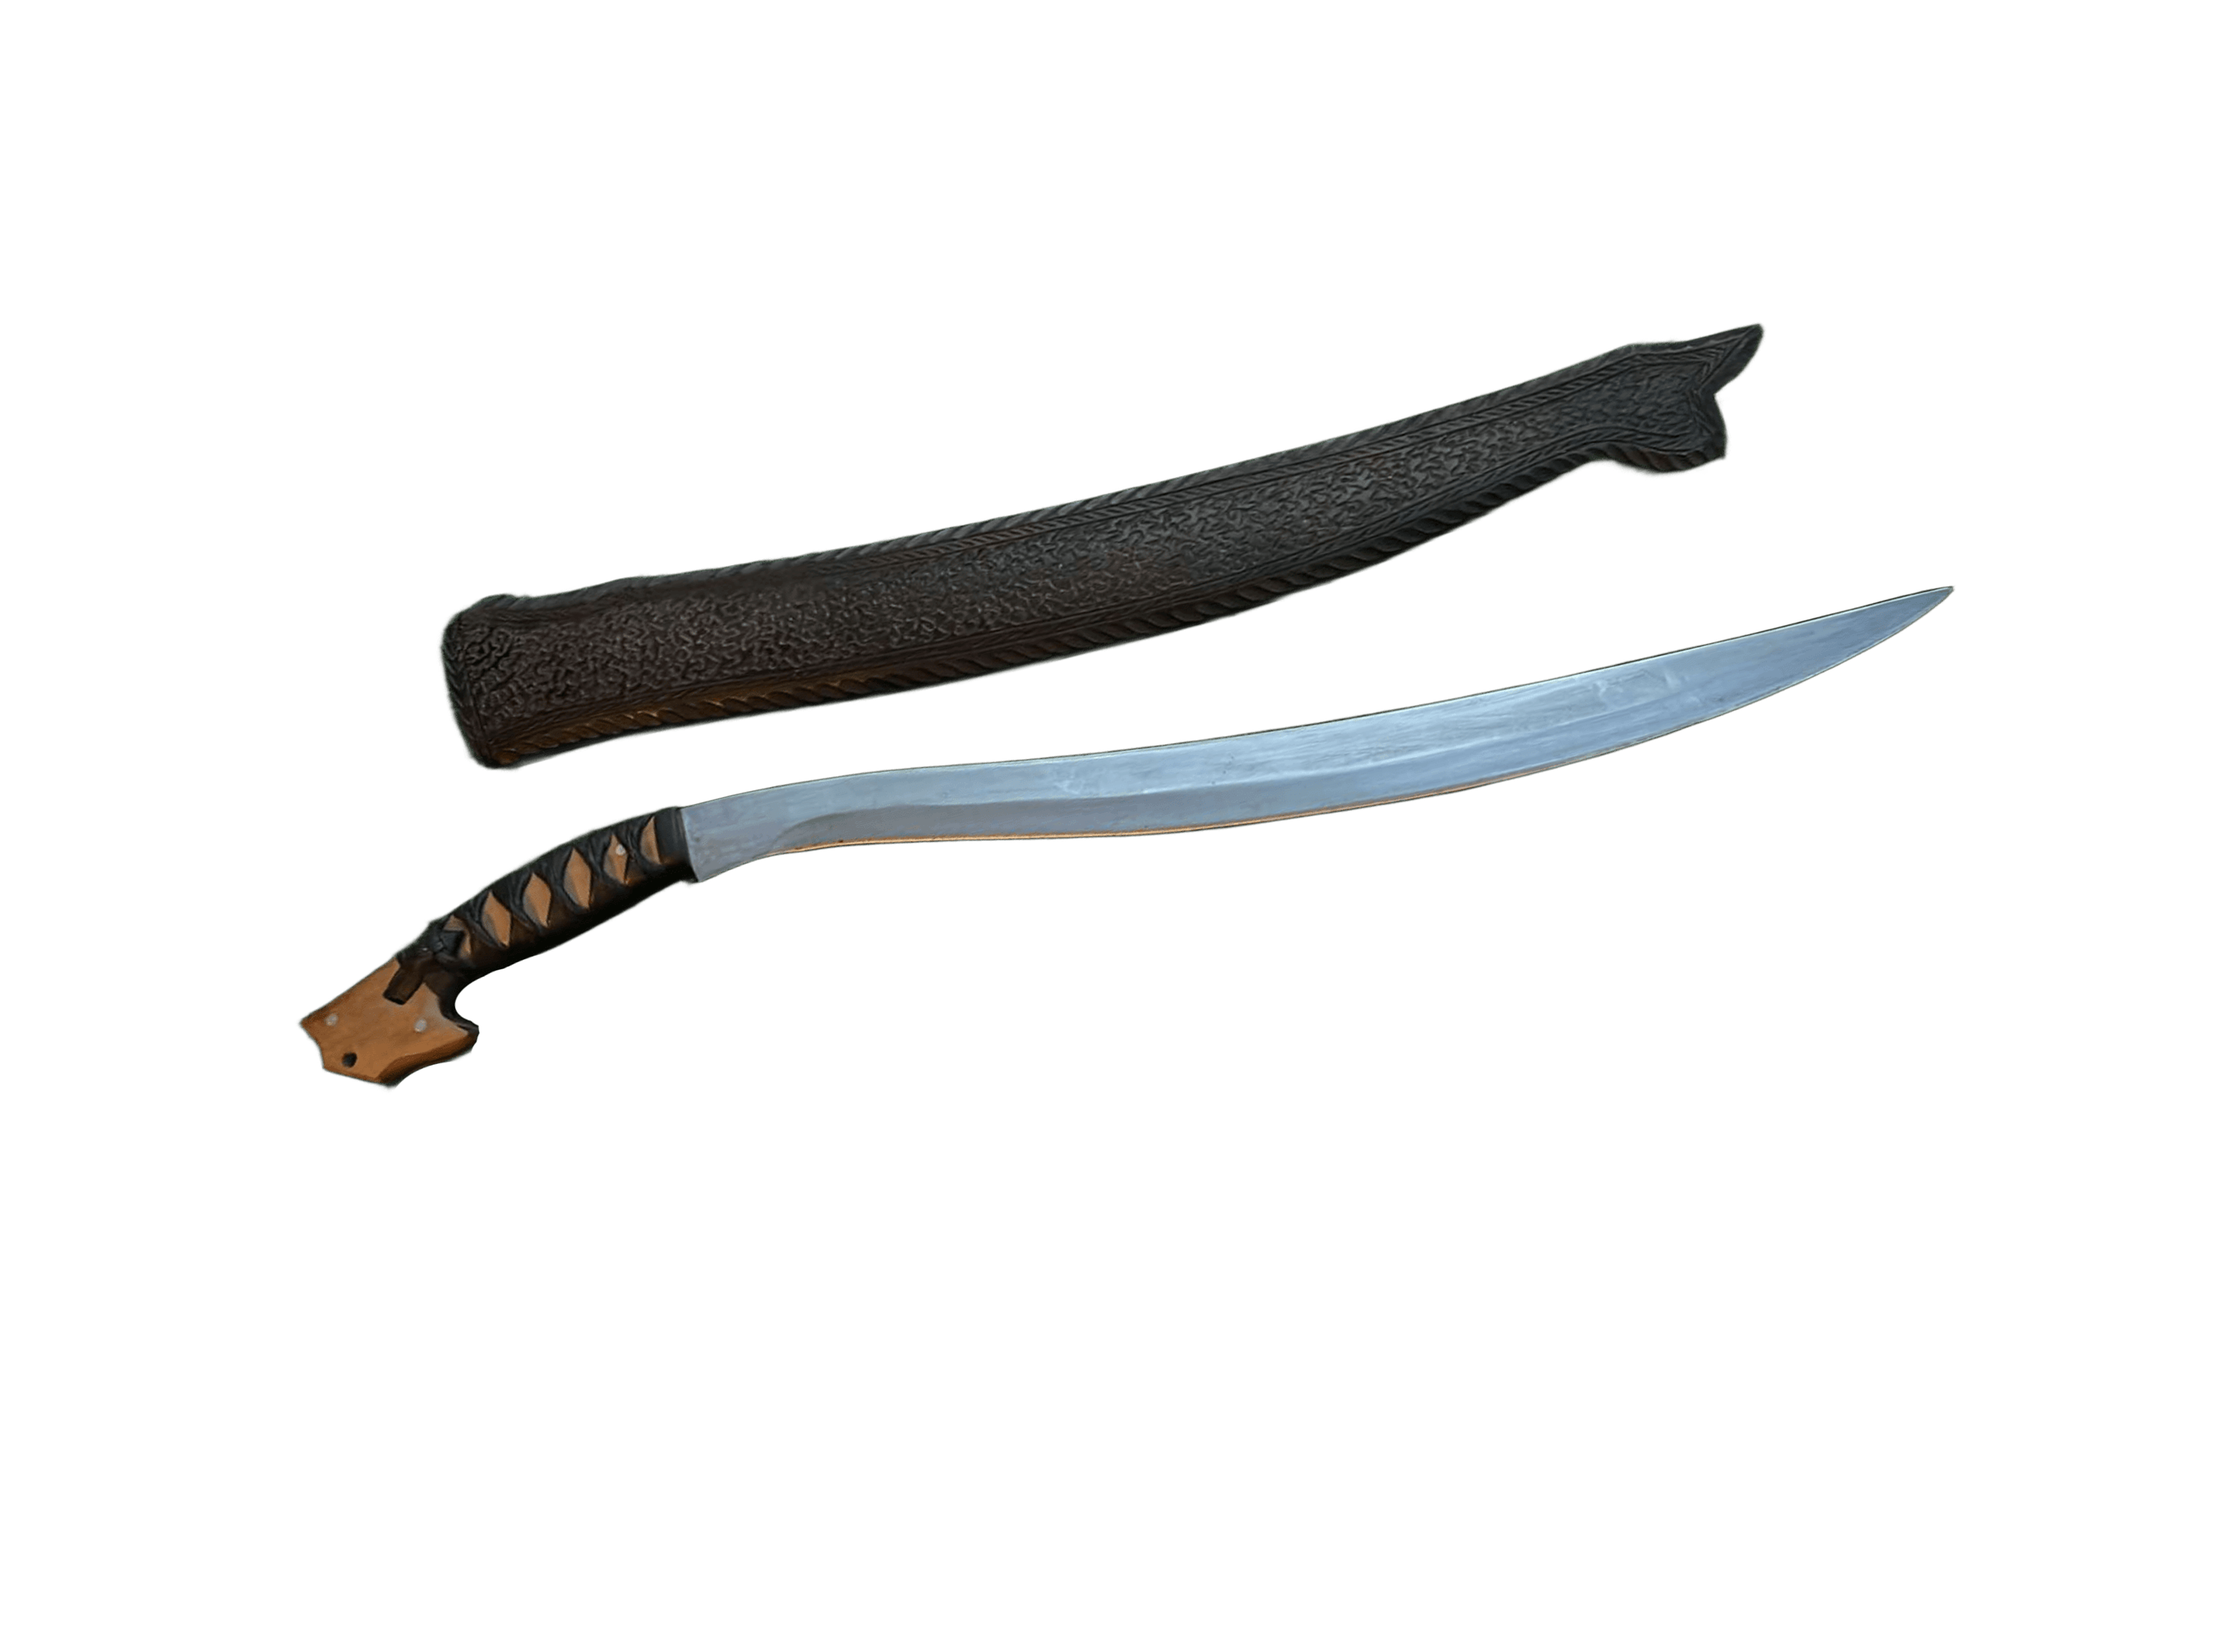
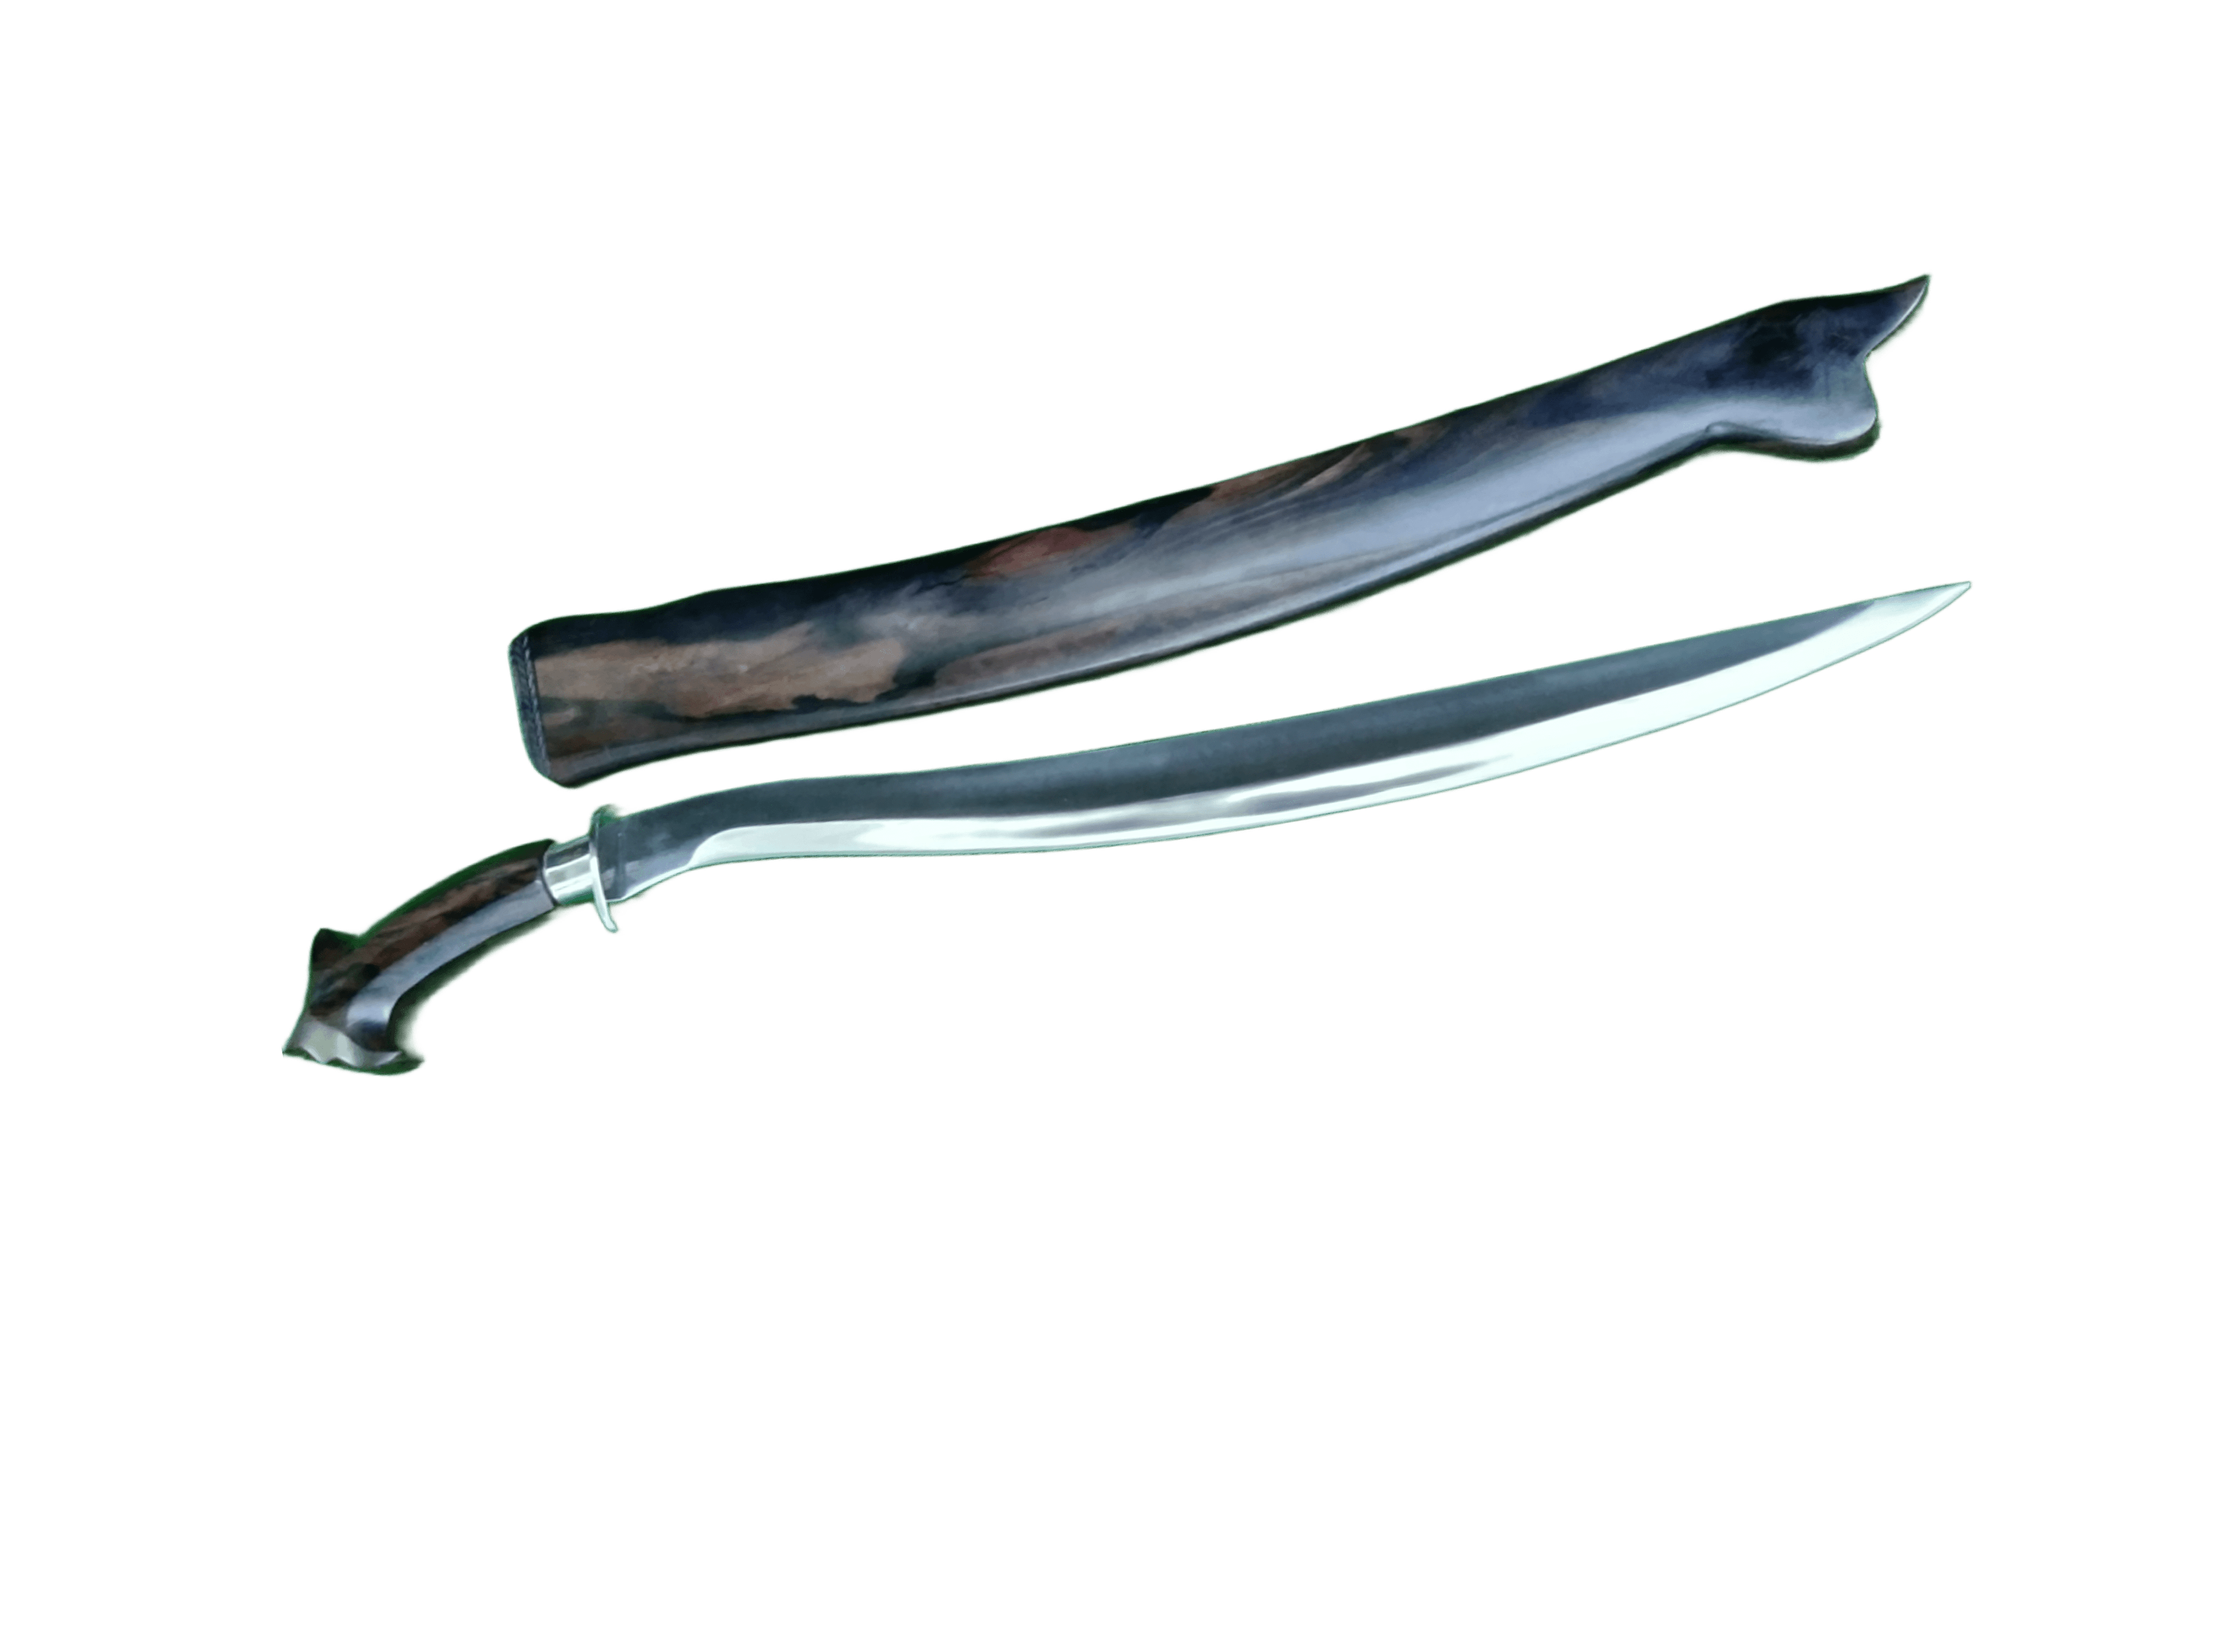
update garab

Changed region(s): [[0.1245, 0.1561, 0.8712, 0.6867]]

diff --git a/js/products-data.js b/js/products-data.js
@@ -199,9 +199,9 @@ window.PANGASINAN_PRODUCTS = [
   },
   {
     "id": 11,
-    "slug": "garab",
-    "image": "assets/images/collection/bolo_series/garab.webp",
-    "name": "Garab",
+    "slug": "garab-hd",
+    "image": "assets/images/collection/bolo_series/garab_with_wrapped_handle.webp",
+    "name": "Garab HD",
     "description": "Garab blade profile, full tang, stainless steel pin, ergonomic wrapped handle, leather lanyard strap. ",
     "category": "bolo",
     "series": "Bolo Series",
@@ -397,12 +397,12 @@ window.PANGASINAN_PRODUCTS = [
   },
   {
     "id": 22,
-    "slug": "talibong",
-    "image": "assets/images/collection/combat_series/talibong.webp",
-    "name": "Talibong",
-    "description": "Talibong blade profile, rat tail tang, stainless steel ferrule, stainless steel handguard.",
-    "category": "combat",
-    "series": "Combat Series",
+    "slug": "garab",
+    "image": "assets/images/collection/bolo_series/garab.webp",
+    "name": "Garab",
+    "description": "Garab blade profile, rat tail tang, stainless steel ferrule, stainless steel handguard.",
+    "category": "bolo",
+    "series": "Bolo Series",
     "featured": true,
     "status": "made-to-order",
     "details": {

diff --git a/docs/PRODUCT-URLS.md b/docs/PRODUCT-URLS.md
@@ -11,7 +11,7 @@
 - https://www.pangasinanblades.com/collection/?id=8 - Dahon Palay
 - https://www.pangasinanblades.com/collection/?id=9 - Jungle Cleaver Bolo
 - https://www.pangasinanblades.com/collection/?id=10 - Cleaver Bolo
-- https://www.pangasinanblades.com/collection/?id=11 - Garab
+- https://www.pangasinanblades.com/collection/?id=11 - Garab HD
 - https://www.pangasinanblades.com/collection/?id=12 - Barung
 - https://www.pangasinanblades.com/collection/?id=13 - Kris
 - https://www.pangasinanblades.com/collection/?id=14 - Kampilan
@@ -22,7 +22,7 @@
 - https://www.pangasinanblades.com/collection/?id=19 - Modern Talibong
 - https://www.pangasinanblades.com/collection/?id=20 - All Purpose Tactical Ginunting
 - https://www.pangasinanblades.com/collection/?id=21 - Tactical Ginunting
-- https://www.pangasinanblades.com/collection/?id=22 - Talibong
+- https://www.pangasinanblades.com/collection/?id=22 - Garab
 - https://www.pangasinanblades.com/collection/?id=23 - Bushcraft
 - https://www.pangasinanblades.com/collection/?id=24 - Hunting
 - https://www.pangasinanblades.com/collection/?id=25 - Karanto
